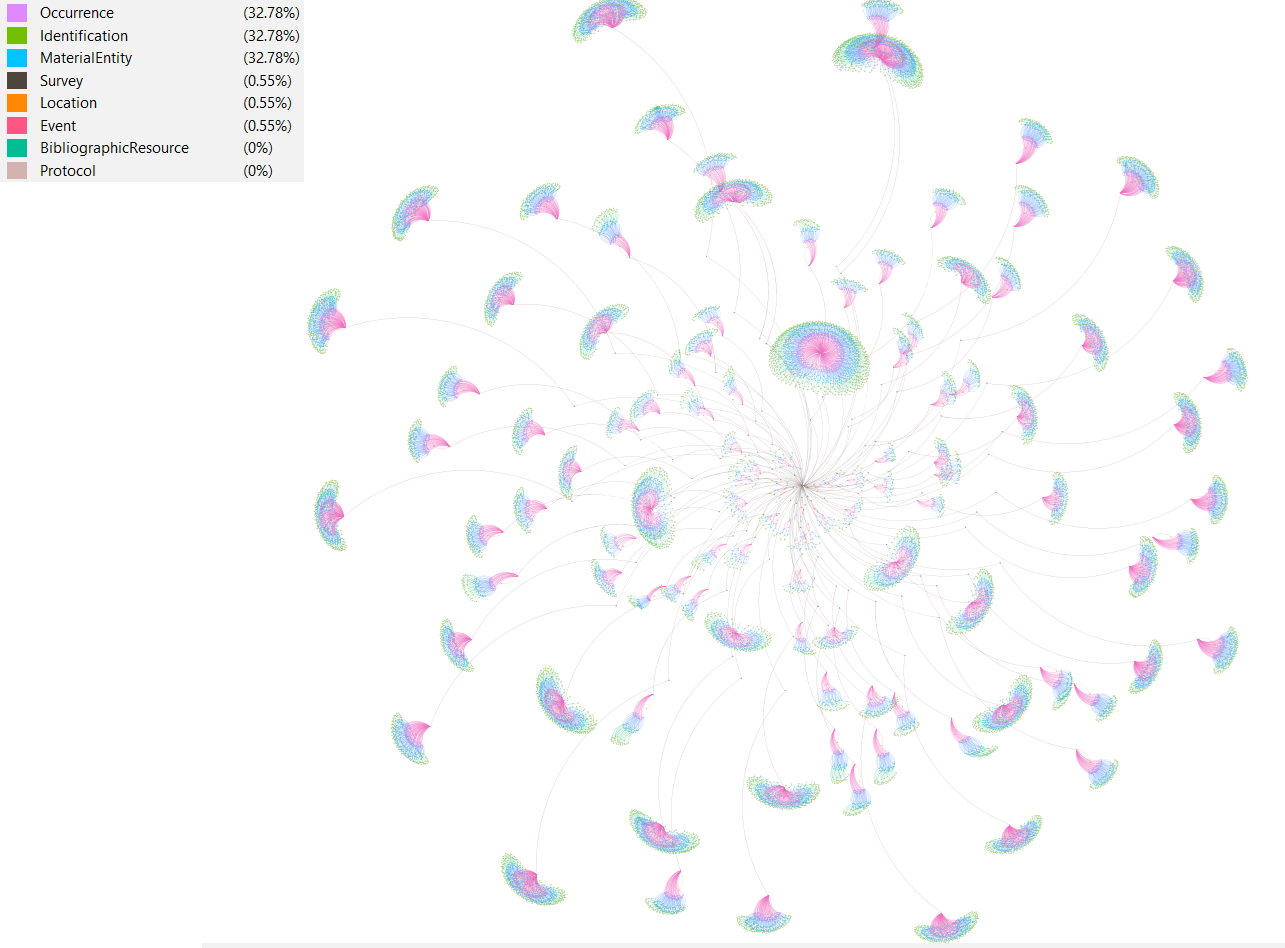
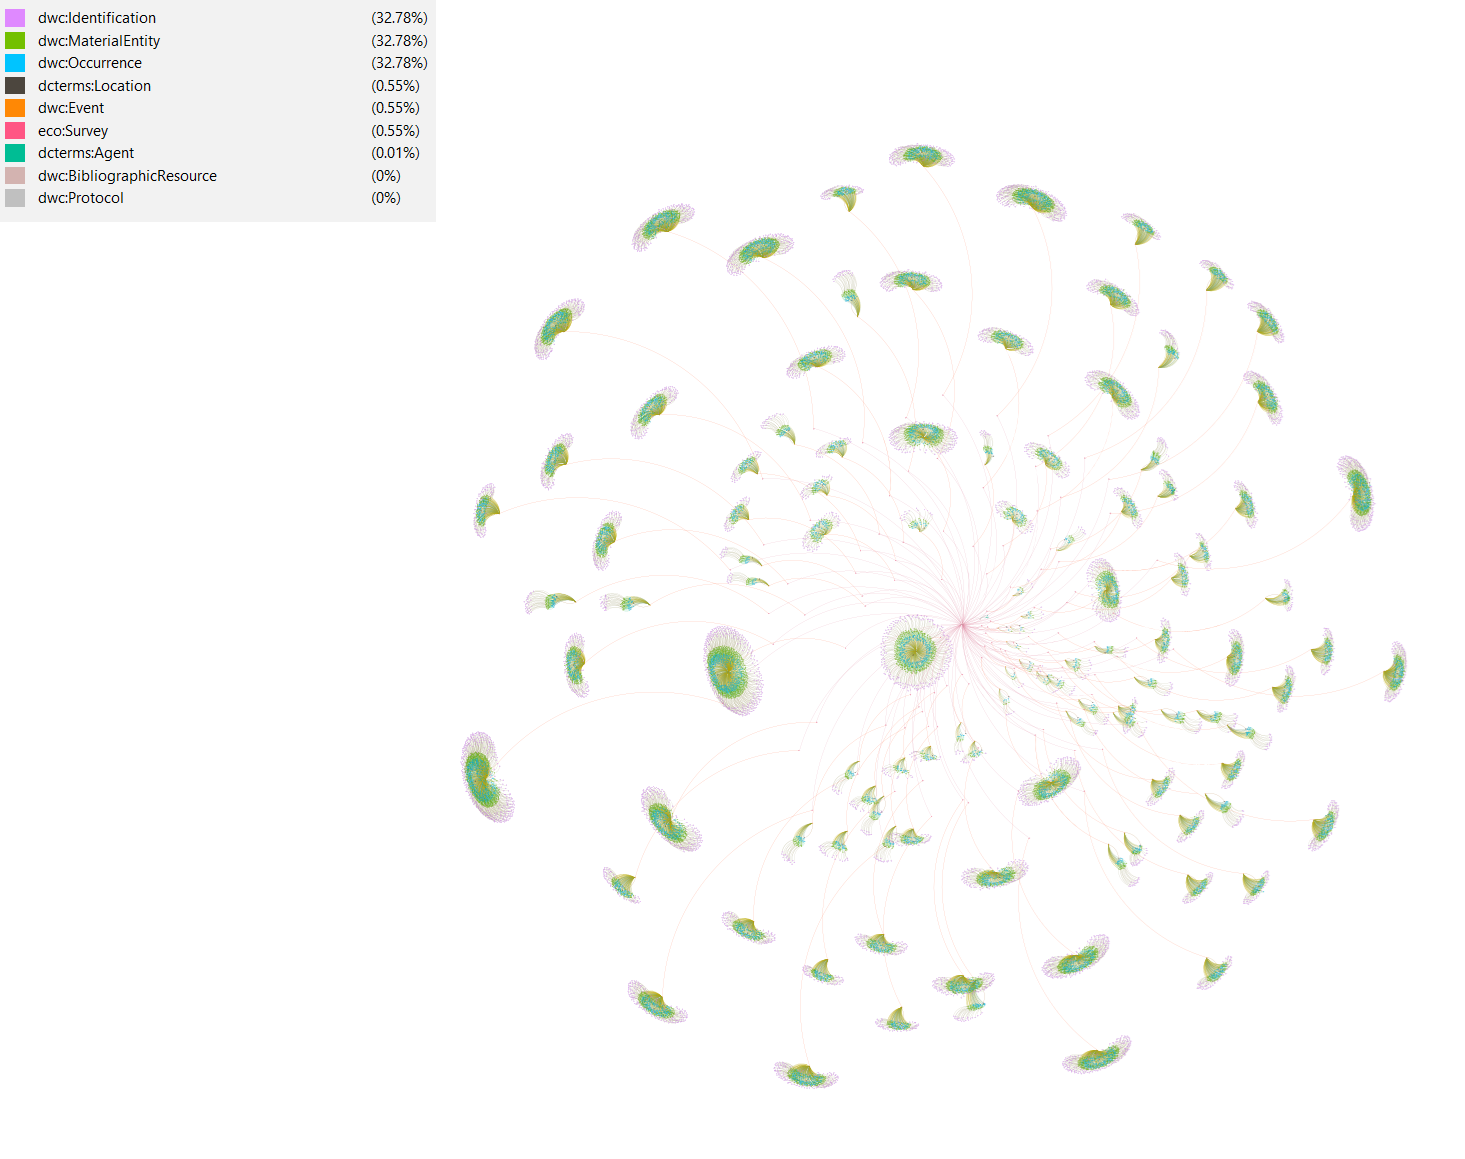
add text about crop visit dataset

diff --git a/README.md b/README.md
@@ -52,6 +52,45 @@ Each dataset will therefore be described according to the following structure:
 
 ## Real-world datasets
 
+### Crop pollinisator visits
+
+- **Dataset definition**: Between 2017 and 2021, the National Agriculture and Food Research Organization (NARO) of Japan conducted a series of monitoring activities focusing on insects visiting crop flowers across the country. At multiple farms, wild insects visiting crop production trees were captured and preserved in plastic vials. These preserved organisms were later identified to assess the abundance and diversity of pollinators contributing to crop production.
+
+- **Dataset organization**: The dataset, published as a Sampling event Darwin Core Archive, was downloaded [from the GBIF](https://www.gbif.org/dataset/bbaca86c-f703-41fc-800a-fa301c0661fd). It includes two tab-delimited text files: `occurrence.txt`, which contains records of individual insect occurrences; and `event.txt`, which provides information about each sampling event—typically a single day, or occasionally a series of days, during which crop trees were monitored for flower-visiting insects.
+
+- **Modelling considerations**: In `occurrence.txt`, each row corresponds to an insect that visited a flower, was captured, and later identified. This single row therefore conflates several distinct entities that must be separated in RDF. Specifically:
+  
+  1. The `dwc:Occurrence` describing the insect's presence
+  2. The `dwc:MaterialEntity` representing the preserved specimen
+  3. The `dwc:Identification` assigned to that specimen
+
+  In the same way, the `event.txt` file also conflates two conceptual entities: the `dwc:Event` itself and the `eco:Survey` conducted within that event. This has proven to be a recurring pattern when converting Darwin Core Archives to RDF: multiple conceptual layers are often represented within the same row and must be disentangled.
+
+- **Ontology subset considered**: Six classes were required to model this dataset: `dwc:Occurrence`, `dwc:MaterialEntity`, `dwc:Identification`, `dwc:Event`, `dcterms:Location`, and `eco:Survey`. Their relationships are tightly interwoven: the material entity, the occurrence, and the event form a closed loop. This is because both the occurrence and the material entity connect to the event, but the material entity also connects to the occurrence as well, as it is the evidence for this occurrence. Note that the object property `dwcdp:happenedDuring` is used twice, once to relate each `dwc:Occurrence` to its `dwc:Event`, and again to relate the `eco:Survey` to the same `dwc:Event`. Altogether, the graph faithfully represents both the data-collection process and the intended interpretation of the dataset.
+
+![Ontology subset for the crop dataset](images/subset/crop-small.png)
+
+- **Additions made**: The survey followed a documented scientific protocol referenced in a published article. This was modelled using instances of `dwc:Protocol` and `dcterms:BibliographicResource`. The authors of the publication were modeled as `dcterms:Agents` and linked accordingly.
+
+- **Difficulties encountered**: As noted earlier, one of the principal challenges when modelling Darwin Core Archives in RDF is separating the distinct entities implied by each table row. Although the DwC-OWL ontology provides domains and ranges for each property, difficulties may also arise from the identifiers used in the dataset.
+
+  In this case, each `dwc:occurrenceID` is a URN, such as `urn:catalog:NIAES:Pollinators:AK17-16`. While such URNs can be treated as URIs, they almost certainly represent the identifier of the preserved specimen rather than of the occurrence itself. For this reason, the URN was assigned to the `dwc:MaterialEntity` rather than to the occurrence.
+
+  Since the dataset is already published on GBIF, both events and occurrences have stable URLs. Events follow the pattern https://www.gbif.org/dataset/{dataset-key}/event/{eventID}, which for this dataset will be https://www.gbif.org/dataset/bbaca86c-f703-41fc-800a-fa301c0661fd/event/{eventID}. Occurrence URLs are a different matter, but can be retrieved via the GBIF API. A small Python script will be used to demonstrate how to incorporate both URLs and URNs in RDF serialization.
+
+- **Graph-based representation**: The `dwc:Protocol` instance functions as a central hub within the graph. All `eco:Survey` instances radiate outward, representing surveys conducted under the same protocol. Each survey is linked to its corresponding `dwc:Event`. The multiple `dwc:Occurrences` associated with each event create the characteristic "flower-like" appearance of the directed graph.
+
+![Directed graph for the turtles dataset](images/complete/crop-directed-graph.png)
+
+- **Lessons learned**: The fact that the dataset was published as a sampling event dataset greatly facilitated modelling. However, a recurring ambiguity remains: determining the appropriate number of `dwc:Event` levels to model. In this dataset, each `dwc:Event` corresponds to a day (or series of days) during which observations took place. One could argue that each individual insect visit could itself be modeled as a `dwc:Event`, with the day acting as a parent event. This would allow finer annotation—such as time of visit, behavioural notes, or observer remarks.
+
+  This approach can be easily done, but was not for two reasons:
+
+  1. No information exists about individual visit events. Indeed, the entry for `dwc:eventID` in `occurrence.txt` refers only to the day event.
+  2. In DwC-OWL, the object property `dwcdp:happenedDuring` is a transitive property. Therefore, even if visit-level events were modelled, a reasoner would automatically infer the occurrence's relationship to the parent event, meaning the coarser model remains semantically valid.
+
+  These questions illustrate ongoing challenges in event granularity and highlight the need for careful consideration when modelling hierarchical sampling structures in RDF.
+
 ### Turtle remote sensing dataset
 
 - **Dataset definition**: As part of the Marine Bioresource Conservation and Restoration Research project, a marine conservation initiative aimed at restoring ecosystem health through the protection and recovery of marine species, fifteen sea turtles were equipped with radio-transmitters. Their movements throughout the Western Pacific Ocean were monitored to inform species protection and habitat management strategies. The dataset spans October 2015 to October 2022. Although most tracks fall within the waters of South Korea and Japan, some individuals traveled as far as China and Vietnam.
@@ -108,12 +147,6 @@ For the AMI dataset, none of `dcterms:Agents` were human, being either instrumen
 The NMNH paleobiology dataset, when expressed as a (somewhat) direct RDF translation of the relational tables in the DataPackage, produced a disconnected graph. The main graph is evident, with around it several subgraphs or even single nodes. Note that this is not an issue for RDF, as these resources are still queryable. Nonetheless, some additional relating of data, such as relating `dwc:Identification` to the `dwc:MaterialEntity` on which they are based would connect the isolated subgraphs to the main graph.
 
 ![Directed graph of the NMNH paleobiology dataset](images/nmnh-directed-graph.png)
-
-### Crop flower visit
-
-The crop-flower-visit dataset, when expressed as a direct translation of the star-schema based Darwin Core Archive, produced isolated small islands of entities. In each case, there was a central `dwc:Event`, from which several `dwc:MaterialEntities` were collected and `dwc:Identifications` were done on these preserved individuals. Accordingly, these dwc:Identifications form the basis of evidence for the dwc:Occurrence of the taxa at said site. This is what gives rise to the flower-like pattern seen in the graph. To connect these islands of entities, and to do so in a meaningful manner, a dwc:Protocol instance was created and pointed to the original paper of the study.
-
-![Directed graph of the crop-flower-visit dataset](images/crop-directed-graph.png)
 
 ### Aulavik lemming nests
 
